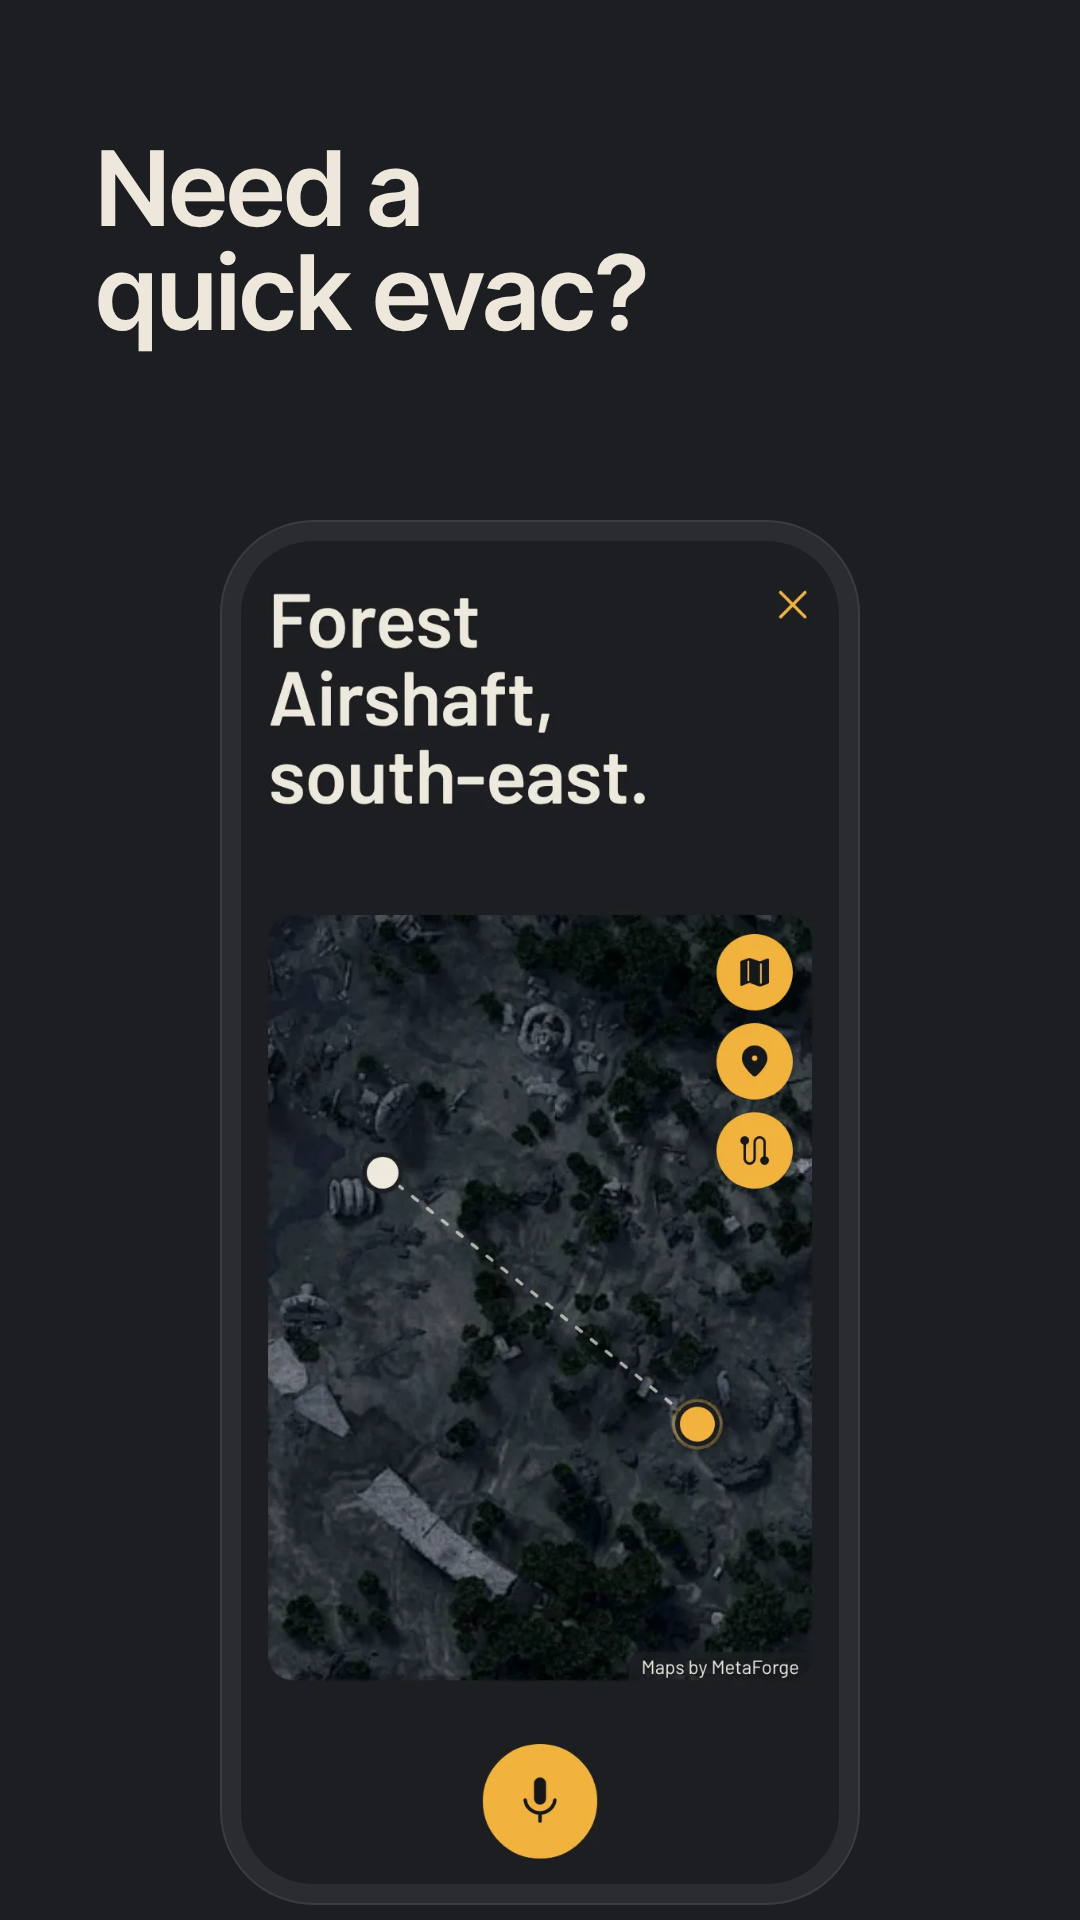
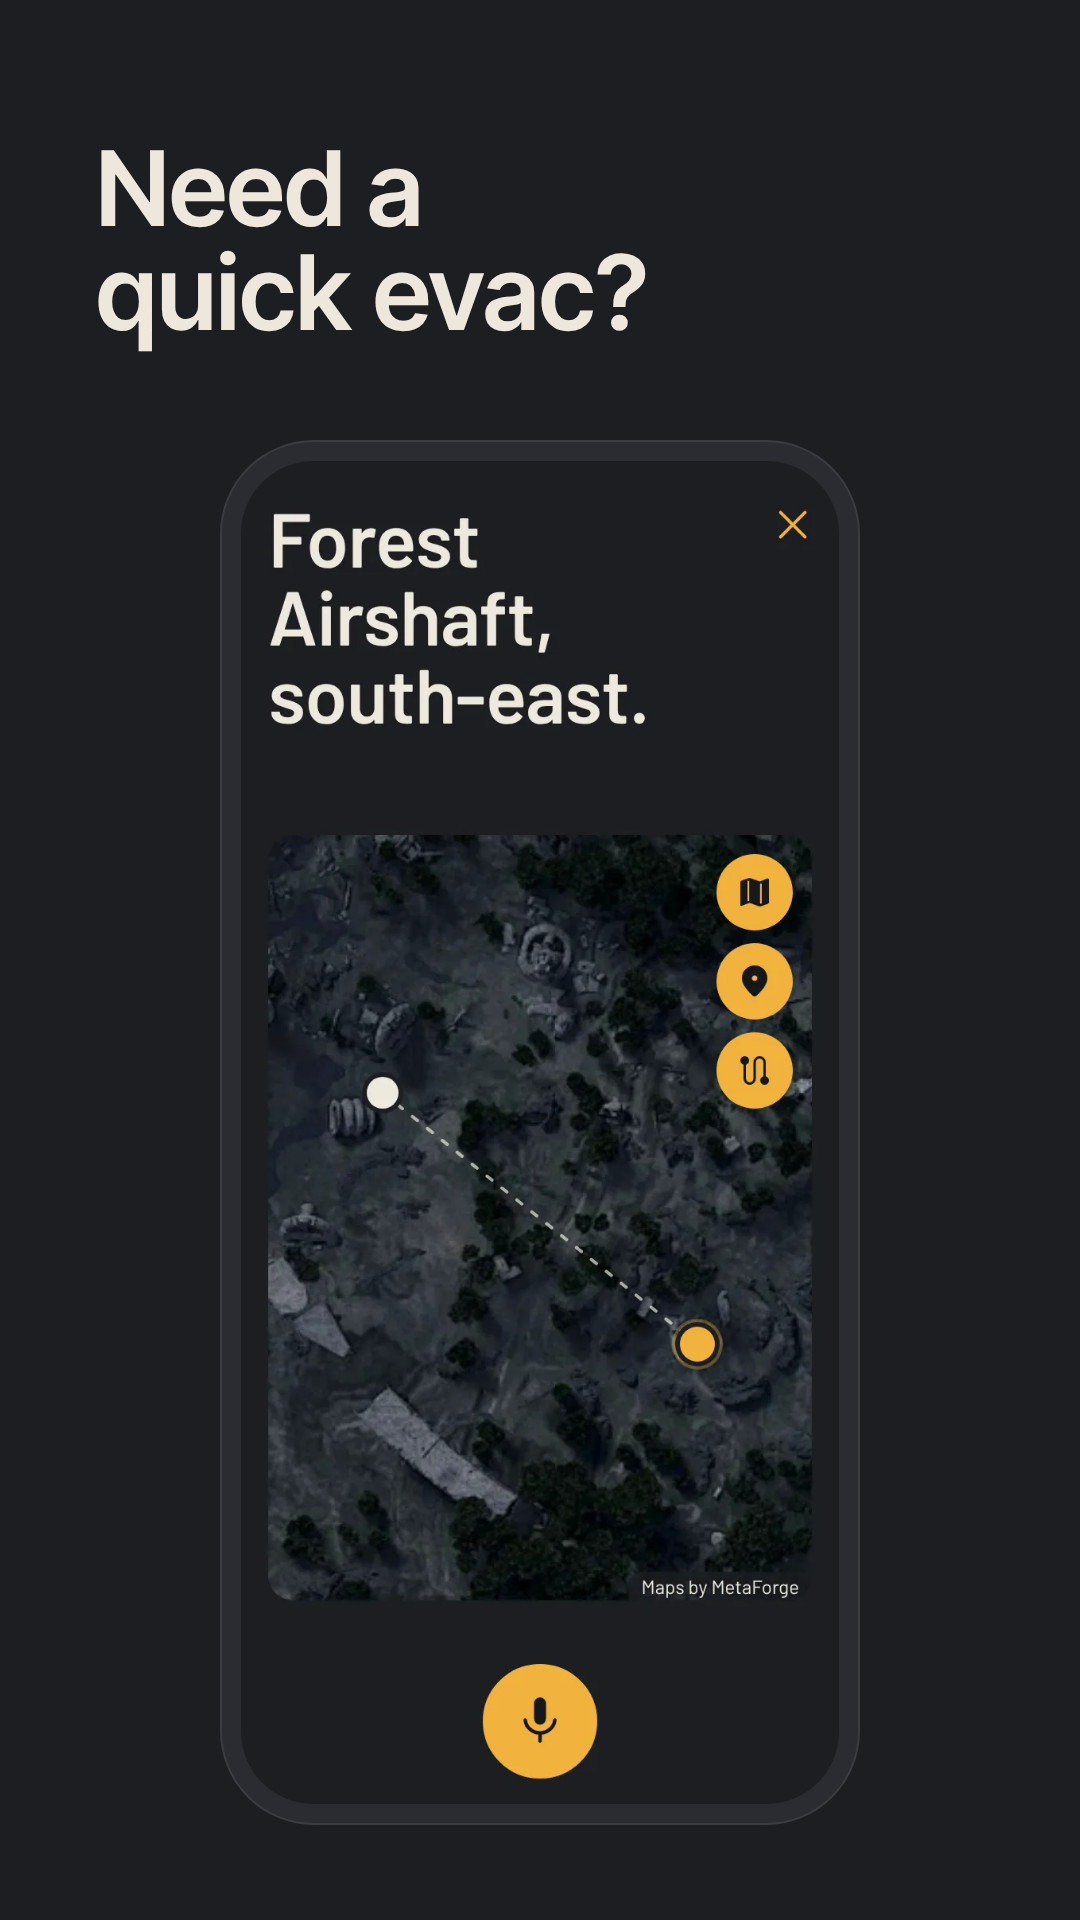
Play screenshots: every title on two lines, phone raised
Claude-Session: https://claude.ai/code/session_01P1qx1SHyXgDY1AuiAuT1Fr

Changed region(s): [[0.2444, 0.25, 0.7639, 0.9688], [0.7028, 0.25, 0.7639, 0.2812], [0.2444, 0.5312, 0.275, 0.5625]]

diff --git a/android-release/play-listing/source/shot.html b/android-release/play-listing/source/shot.html
@@ -9,9 +9,9 @@
 @font-face{font-family:IT;font-weight:700;src:url(inter-tight-700.woff2)}
 html,body{margin:0;background:#1C1E22;color:#EEE8DC;font-family:IT}
 .s{position:relative;width:1080px;height:1920px;overflow:hidden;background:#1C1E22;margin-bottom:40px}
-.s h1{position:absolute;left:96px;right:96px;top:136px;margin:0;font:600 104px/1 IT;letter-spacing:0;text-wrap:balance}
+.s h1{position:absolute;left:96px;right:96px;top:136px;margin:0;font:600 104px/1 IT;letter-spacing:0;white-space:pre-line}  /* every title on two lines, so the phones line up */
 /* phone: frame, corners and screen radius in proportion to its width, as on the site */
-.ph{--pw:640px;position:absolute;left:50%;top:520px;width:var(--pw);aspect-ratio:390/844;transform:translateX(-50%);box-sizing:border-box;padding:calc(var(--pw) * .0333);border-radius:calc(var(--pw) * .1467);background:#2A2C32;box-shadow:inset 0 0 0 2px rgba(255,255,255,.08)}
+.ph{--pw:640px;position:absolute;left:50%;top:440px;width:var(--pw);aspect-ratio:390/844;transform:translateX(-50%);box-sizing:border-box;padding:calc(var(--pw) * .0333);border-radius:calc(var(--pw) * .1467);background:#2A2C32;box-shadow:inset 0 0 0 2px rgba(255,255,255,.08)}
 .ph img{display:block;width:100%;height:100%;border-radius:calc(var(--pw) * .1133);object-fit:cover;object-position:top}
 /* feature graphic: the site's closing lockup, phone turned the way it is in the finale */
 .fg{position:relative;width:1024px;height:500px;overflow:hidden;background:#1C1E22;display:flex;align-items:center}
@@ -23,9 +23,13 @@ html,body{margin:0;background:#1C1E22;color:#EEE8DC;font-family:IT}
 .p3 .scr{position:absolute;inset:calc(var(--pw) * .0333);border-radius:calc(var(--pw) * .1133);overflow:hidden;transform:translateZ(.5px)}
 .p3 .scr img{display:block;width:100%;height:100%;object-fit:cover;object-position:top}
 </style>
-<div class="s" id="s1"><h1>Need a quick evac?</h1><div class="ph"><img src="screen-3-exit.webp" alt=""></div></div>
-<div class="s" id="s2"><h1>Just ask.</h1><div class="ph"><img src="screen-2-listening.webp" alt=""></div></div>
-<div class="s" id="s3"><h1>Find what you need.</h1><div class="ph"><img src="screen-4-find.webp" alt=""></div></div>
-<div class="s" id="s4"><h1>Show it where you are.</h1><div class="ph"><img src="screen-5-pin.webp" alt=""></div></div>
+<div class="s" id="s1"><h1>Need a
+quick evac?</h1><div class="ph"><img src="screen-3-exit.webp" alt=""></div></div>
+<div class="s" id="s2"><h1>Just
+ask.</h1><div class="ph"><img src="screen-2-listening.webp" alt=""></div></div>
+<div class="s" id="s3"><h1>Find what
+you need.</h1><div class="ph"><img src="screen-4-find.webp" alt=""></div></div>
+<div class="s" id="s4"><h1>Show it where
+you are.</h1><div class="ph"><img src="screen-5-pin.webp" alt=""></div></div>
 <div class="fg" id="fg"><h2>Ask. Find.
 Get out.</h2><div class="stage"><div class="p3"><i style="--k:12"></i><i style="--k:11"></i><i style="--k:10"></i><i style="--k:9"></i><i style="--k:8"></i><i style="--k:7"></i><i style="--k:6"></i><i style="--k:5"></i><i style="--k:4"></i><i style="--k:3"></i><i style="--k:2"></i><i class="rim" style="--k:1"></i><div class="scr"><img src="screen-3-exit.webp" alt=""></div></div></div></div>
